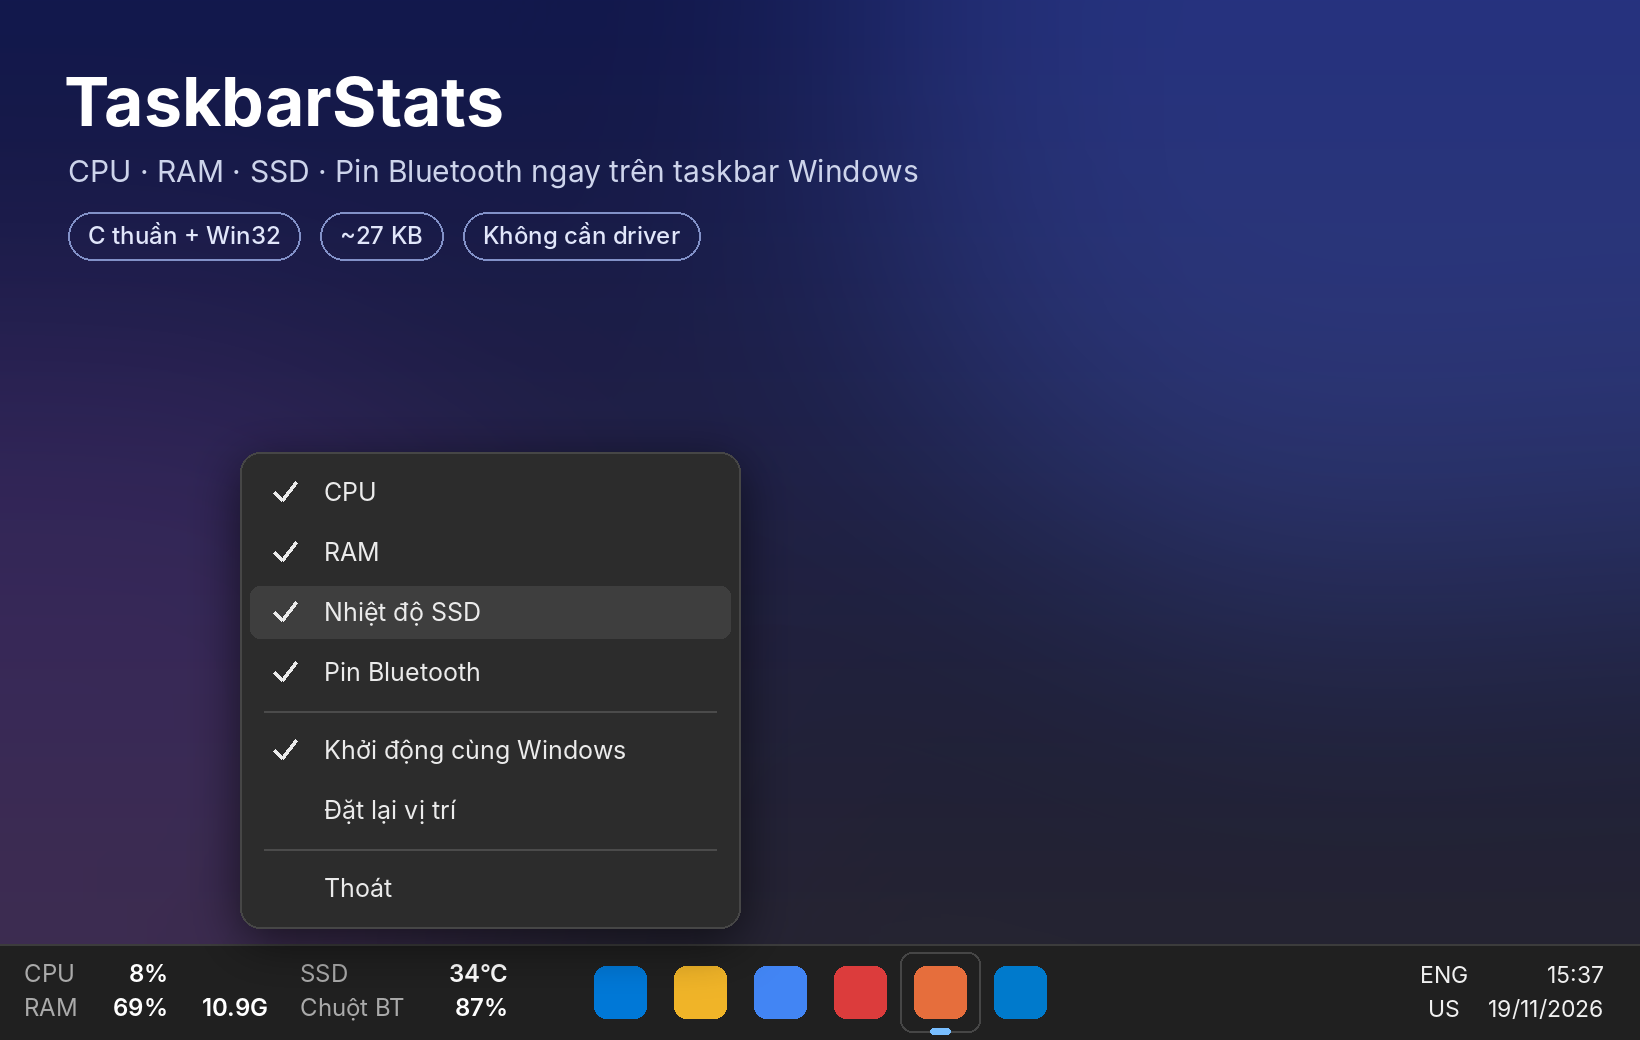
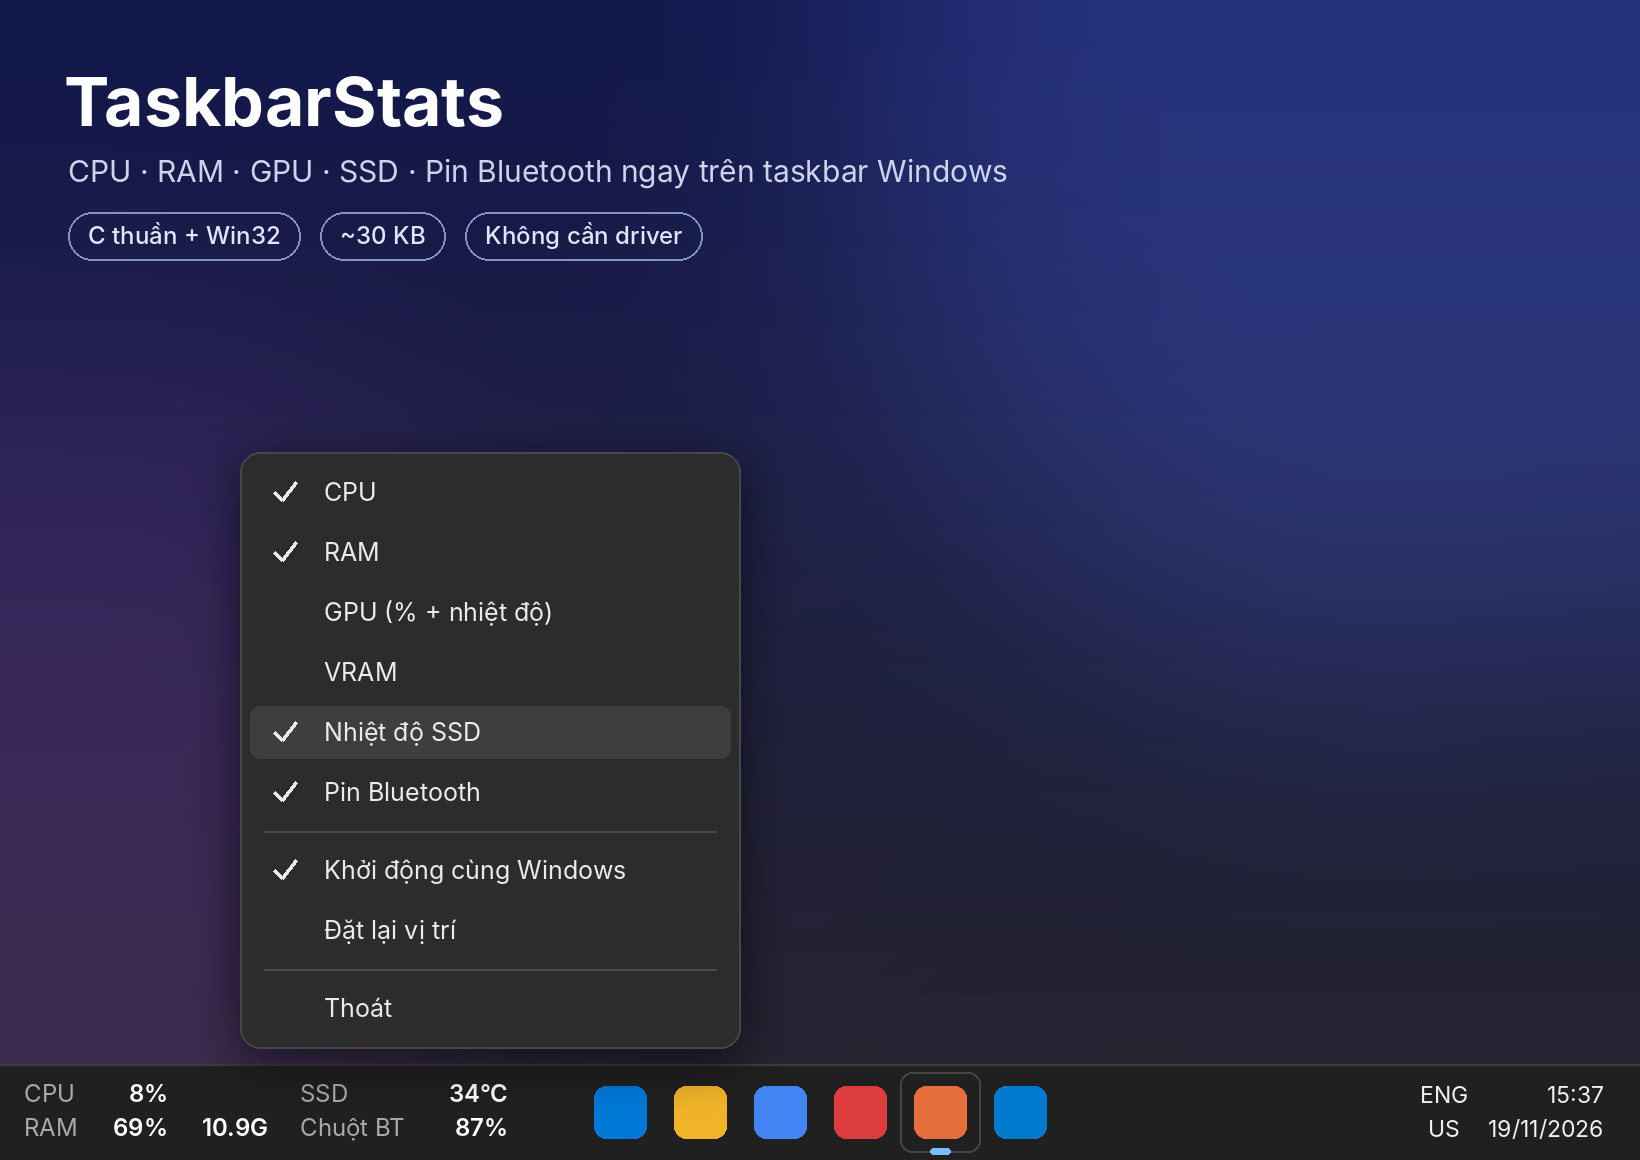
TaskbarStats: them tuy chon GPU/VRAM, cap nhat README va anh minh hoa

diff --git a/taskbarstats/taskbarstats.c b/taskbarstats/taskbarstats.c
@@ -14,8 +14,8 @@
  *   Pin BT     : SetupAPI, thuoc tinh PnP {104EA319-6EE2-4701-BD47-8DDBF425BBE5} 2
  *                (cung nguon voi muc Bluetooth trong Settings) - chuot, phim, tai nghe Bluetooth
  *
- * GPU / VRAM: may hien tai khong co card roi nen phan hien thi va lay so lieu GPU/VRAM
- * dang duoc COMMENT (tim "[GPU]"). Bo comment cac dong do neu sang may co card roi.
+ * GPU / VRAM: mac dinh TAT (de nhe may), bat trong menu chuot phai. Counter GPU chi duoc
+ * tao khi co it nhat 1 muc GPU/VRAM dang hien, tat het thi giai phong.
  *
  * Thao tac: keo chuot trai de doi vi tri, chuot phai de mo menu.
  */
@@ -57,8 +57,8 @@
 enum {
     IT_CPU,
     IT_RAM,
-    // IT_GPU,    /* [GPU] */
-    // IT_VRAM,   /* [GPU] */
+    IT_GPU,
+    IT_VRAM,
     IT_SSD,
     IT_BAT,
     IT_COUNT
@@ -67,12 +67,13 @@ static const WCHAR *itemMenu[IT_COUNT] = {
     // L"CPU (% + nhi\u1ec7t \u0111\u1ed9)",   /* may khong doc duoc nhiet do CPU */
     L"CPU",
     L"RAM",
-    // L"GPU (% + nhi\u1ec7t \u0111\u1ed9)",   /* [GPU] */
-    // L"VRAM",                                  /* [GPU] */
+    L"GPU (% + nhi\u1ec7t \u0111\u1ed9)",
+    L"VRAM",
     L"Nhi\u1ec7t \u0111\u1ed9 SSD",
     L"Pin Bluetooth",
 };
-static DWORD showMask = (1u << IT_COUNT) - 1;   /* mac dinh hien tat ca */
+#define GPU_MASK ((1u << IT_GPU) | (1u << IT_VRAM))
+static DWORD showMask = ((1u << IT_COUNT) - 1) & ~GPU_MASK;   /* mac dinh: tat ca tru GPU/VRAM */
 
 /* ------------------------------------------------------------------ */
 /* D3DKMT (tu khai bao de khong can WDK)                               */
@@ -123,6 +124,7 @@ static WCHAR batName[64] = L"Pin";    /* ten thiet bi co pin thap nhat */
 
 static ULONGLONG pIdle, pKern, pUser;
 static PDH_HQUERY   hq;
+static PDH_HQUERY   hqGpu;               /* query rieng cho GPU, chi mo khi can */
 static PDH_HCOUNTER cGpu, cVram, cTz;
 static BOOL tzHighPrec;
 
@@ -305,15 +307,26 @@ static void init_pdh(void)
 {
     if (PdhOpenQueryW(NULL, 0, &hq) != ERROR_SUCCESS) { hq = NULL; return; }
     /* PdhAddEnglishCounter: chay dung ca tren Windows tieng Viet / ngon ngu khac */
-    /* [GPU] may khong co card roi -> tat counter GPU/VRAM (counter GPU Engine kha ton CPU)
-    if (PdhAddEnglishCounterW(hq, L"\\GPU Engine(*engtype_3D)\\Utilization Percentage", 0, &cGpu) != ERROR_SUCCESS) cGpu = NULL;
-    if (PdhAddEnglishCounterW(hq, L"\\GPU Adapter Memory(*)\\Dedicated Usage", 0, &cVram) != ERROR_SUCCESS) cVram = NULL;
-    */
     if (PdhAddEnglishCounterW(hq, L"\\Thermal Zone Information(*)\\High Precision Temperature", 0, &cTz) == ERROR_SUCCESS)
         tzHighPrec = TRUE;
     else if (PdhAddEnglishCounterW(hq, L"\\Thermal Zone Information(*)\\Temperature", 0, &cTz) != ERROR_SUCCESS)
         cTz = NULL;
     PdhCollectQueryData(hq);
+}
+
+/* Counter GPU Engine kha ton CPU -> chi mo query GPU khi user bat muc GPU/VRAM */
+static void gpu_query_update(void)
+{
+    BOOL need = (showMask & GPU_MASK) != 0;
+    if (need && !hqGpu) {
+        if (PdhOpenQueryW(NULL, 0, &hqGpu) != ERROR_SUCCESS) { hqGpu = NULL; return; }
+        if (PdhAddEnglishCounterW(hqGpu, L"\\GPU Engine(*engtype_3D)\\Utilization Percentage", 0, &cGpu) != ERROR_SUCCESS) cGpu = NULL;
+        if (PdhAddEnglishCounterW(hqGpu, L"\\GPU Adapter Memory(*)\\Dedicated Usage", 0, &cVram) != ERROR_SUCCESS) cVram = NULL;
+        PdhCollectQueryData(hqGpu);
+    } else if (!need && hqGpu) {
+        PdhCloseQuery(hqGpu);
+        hqGpu = NULL; cGpu = NULL; cVram = NULL;
+    }
 }
 
 /* Lay mang gia tri cua counter co wildcard. Buffer dung chung: xu ly xong moi goi tiep. */
@@ -374,25 +387,6 @@ static void sample(void)
     }
 
     if (hq && PdhCollectQueryData(hq) == ERROR_SUCCESS) {
-        // [GPU] tam tat - bo comment cac dong duoi neu may co card roi
-        // /* GPU %: cong tat ca engine 3D cua GPU da chon */
-        // double g = 0;
-        // a = pdh_array(cGpu, &n);
-        // for (i = 0; i < n; i++)
-        //     if (valid(&a[i]) && mine(a[i].szName)) g += a[i].FmtValue.doubleValue;
-        // S.gpu = g > 100 ? 100 : (int)(g + 0.5);
-
-        // /* VRAM */
-        // {
-        //     double v = 0;
-        //     a = pdh_array(cVram, &n);
-        //     for (i = 0; i < n; i++)
-        //         if (valid(&a[i]) && mine(a[i].szName)) v += a[i].FmtValue.doubleValue;
-        //     S.vramUsed = (ULONGLONG)v;
-        //     S.vram = vramTotal ? (int)(S.vramUsed * 100 / vramTotal) : 0;
-        //     if (S.vram > 100) S.vram = 100;
-        // }
-
         /* CPU temp: lay thermal zone nong nhat */
         {
             double best = -1000;
@@ -409,7 +403,27 @@ static void sample(void)
         }
     }
 
-    // S.gpuT = read_gpu_temp();   /* [GPU] */
+    if (hqGpu && PdhCollectQueryData(hqGpu) == ERROR_SUCCESS) {
+        /* GPU %: cong tat ca engine 3D cua GPU da chon */
+        double g = 0;
+        a = pdh_array(cGpu, &n);
+        for (i = 0; i < n; i++)
+            if (valid(&a[i]) && mine(a[i].szName)) g += a[i].FmtValue.doubleValue;
+        S.gpu = g > 100 ? 100 : (int)(g + 0.5);
+
+        /* VRAM */
+        {
+            double v = 0;
+            a = pdh_array(cVram, &n);
+            for (i = 0; i < n; i++)
+                if (valid(&a[i]) && mine(a[i].szName)) v += a[i].FmtValue.doubleValue;
+            S.vramUsed = (ULONGLONG)v;
+            S.vram = vramTotal ? (int)(S.vramUsed * 100 / vramTotal) : 0;
+            if (S.vram > 100) S.vram = 100;
+        }
+    }
+
+    if (showMask & (1u << IT_GPU)) S.gpuT = read_gpu_temp();
     if (tickCount % 5 == 0) S.ssdT = read_ssd_temp(); /* SSD doi cham, 5 giay doc 1 lan */
     if (tickCount % 30 == 0) S.bat = read_bt_battery(); /* pin doi rat cham, 30 giay doc 1 lan */
     tickCount++;
@@ -443,7 +457,7 @@ static void load_offset(void)
 static void load_show(void)
 {
     DWORD v, sz = sizeof v;
-    if (RegGetValueW(HKEY_CURRENT_USER, CFGKEY, L"Show", RRF_RT_REG_DWORD, NULL, &v, &sz) == ERROR_SUCCESS &&
+    if (RegGetValueW(HKEY_CURRENT_USER, CFGKEY, L"Items", RRF_RT_REG_DWORD, NULL, &v, &sz) == ERROR_SUCCESS &&
         (v & ((1u << IT_COUNT) - 1)))
         showMask = v & ((1u << IT_COUNT) - 1);
 }
@@ -452,7 +466,7 @@ static void save_show(void)
 {
     HKEY k;
     if (RegCreateKeyExW(HKEY_CURRENT_USER, CFGKEY, 0, NULL, 0, KEY_SET_VALUE, NULL, &k, NULL) != ERROR_SUCCESS) return;
-    RegSetValueExW(k, L"Show", 0, REG_DWORD, (BYTE *)&showMask, sizeof showMask);
+    RegSetValueExW(k, L"Items", 0, REG_DWORD, (BYTE *)&showMask, sizeof showMask);
     RegCloseKey(k);
 }
 
@@ -603,18 +617,17 @@ static void make_cell(int it, Cell *c)
         fmt_pct(c->v1, S.ram);  c->s1 = sev(S.ram, 75, 90);
         fmt_gb(c->v2, S.ramUsed);
         break;
-    /* [GPU] bo comment neu may co card roi (nho bo comment ca IT_GPU/IT_VRAM o enum)
     case IT_GPU:
         c->lab = L"GPU";
         fmt_pct(c->v1, S.gpu);  c->s1 = sev(S.gpu, 70, 90);
         fmt_temp(c->v2, S.gpuT); c->s2 = sev(S.gpuT, 75, 87);
+        if (S.gpuT == NA) c->has2 = FALSE;   /* driver khong bao nhiet do -> chi hien % */
         break;
     case IT_VRAM:
         c->lab = L"VRAM";
         fmt_pct(c->v1, S.vram); c->s1 = sev(S.vram, 75, 90);
         fmt_gb(c->v2, S.vramUsed);
         break;
-    */
     case IT_SSD:
         c->lab = L"SSD";
         fmt_temp(c->v1, S.ssdT); c->s1 = sev(S.ssdT, 60, 70);
@@ -821,7 +834,7 @@ static LRESULT CALLBACK wndproc(HWND h, UINT m, WPARAM wp, LPARAM lp)
         DestroyMenu(mn);
         if (cmd >= IDM_ITEM0 && cmd < IDM_ITEM0 + IT_COUNT) {
             DWORD m = showMask ^ (1u << (cmd - IDM_ITEM0));
-            if (m) { showMask = m; save_show(); update_window(); } /* khong cho tat het */
+            if (m) { showMask = m; save_show(); gpu_query_update(); update_window(); } /* khong cho tat het */
         }
         else if (cmd == IDM_AUTOSTART) autostart_set(!autostart_get());
         else if (cmd == IDM_RESETPOS) { offsetLeft = -1; save_offset(); update_window(); }
@@ -862,10 +875,11 @@ int WINAPI wWinMain(HINSTANCE inst, HINSTANCE prev, PWSTR cmd, int show)
     init_layout();
     if (autostart_get()) autostart_set(TRUE); /* cap nhat duong dan neu exe da bi chuyen cho khac */
 
-    // pick_gpu();        /* [GPU] */
-    // init_gpu_temp();   /* [GPU] */
+    pick_gpu();
+    init_gpu_temp();
     init_disk();
     init_pdh();
+    gpu_query_update();
     sample();
 
     ZeroMemory(&wc, sizeof wc);
@@ -890,6 +904,7 @@ int WINAPI wWinMain(HINSTANCE inst, HINSTANCE prev, PWSTR cmd, int show)
     }
 
     if (hq) PdhCloseQuery(hq);
+    if (hqGpu) PdhCloseQuery(hqGpu);
     if (hDisk != INVALID_HANDLE_VALUE) CloseHandle(hDisk);
     if (mtx) CloseHandle(mtx);
     return 0;
